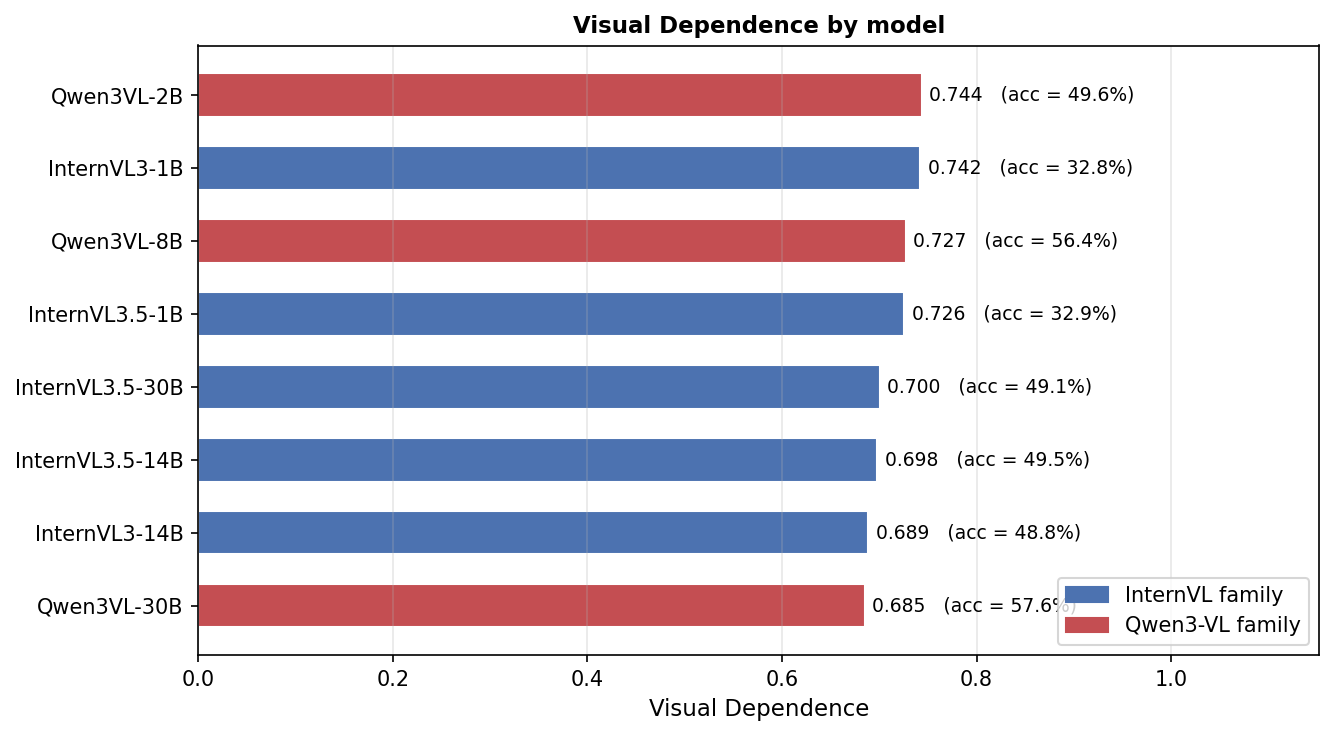
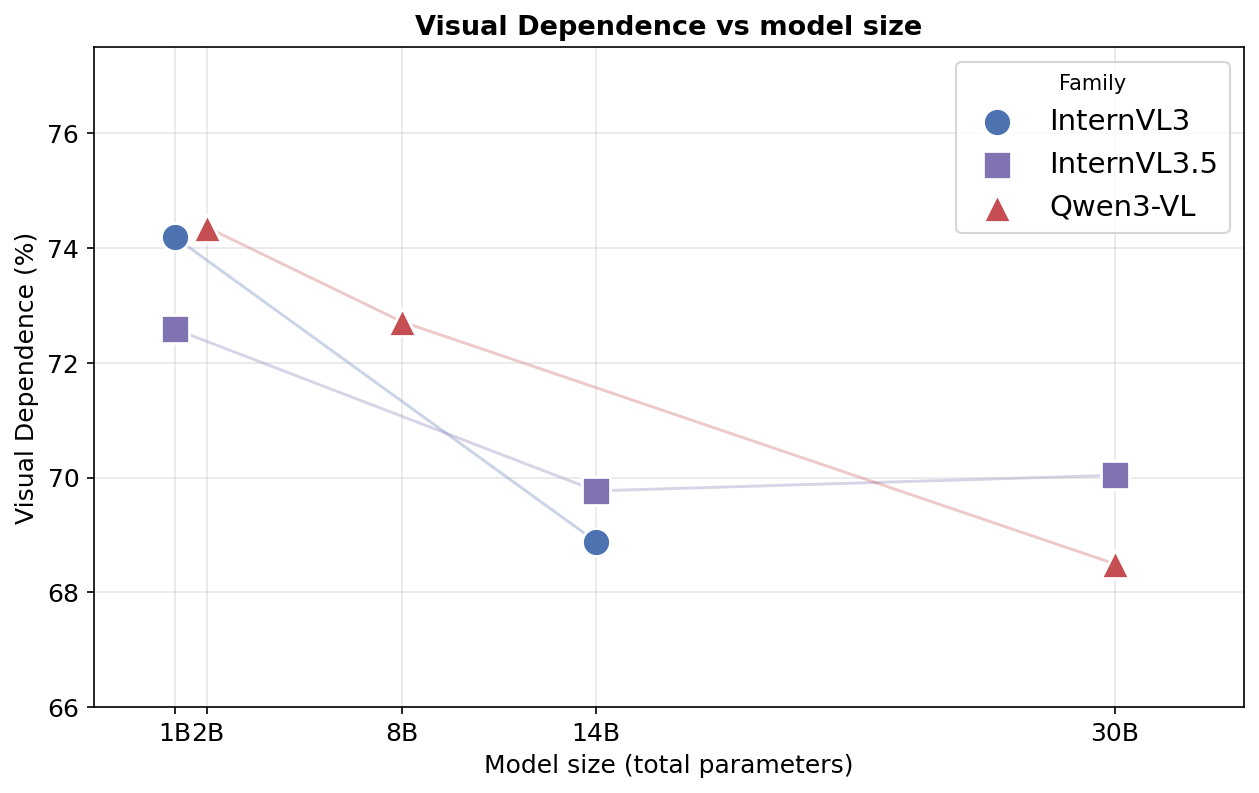
update figure 4

diff --git a/index.html b/index.html
@@ -1021,7 +1021,7 @@ Practical judge-trust recipe — for every (model, dataset, mode) cell, log: loc
 
 <figure id="fig4">
   <img src="fig7_vge_models.png" alt="Visual Dependence by model" />
-  <figcaption><em>Figure 4. Visual Dependence by model. <code>Visual Dependence = (acc(original) &minus; acc(no_images)) / acc(original)</code>, computed per model and averaged across the 9 benchmarks. Higher values indicate that a larger share of the model&rsquo;s correct answers required the image.</em></figcaption>
+  <figcaption><em>Figure 4. Visual Dependence vs model size. Each point is one model: <code>Visual Dependence = (acc(original) &minus; acc(no_images)) / acc(original)</code>, averaged across the 9 benchmarks, plotted against total parameter count (MoE &ldquo;-A3B&rdquo; models counted by total parameters). Within every family it declines as the model grows.</em></figcaption>
 </figure>
 
 <p>Visual Dependence is varies between 68% and 75% across all eight models. There&rsquo;s a trend that it scales inversely with model scale, dropping from 73-74% for 1B and 2B models to 68-70% for 30B variants. We hypothesize that this is because larger models have a larger LLM backbone, which resolves a larger share of questions from world knowledge alone, leaving a smaller residual share for the image to actually contribute to.</p>